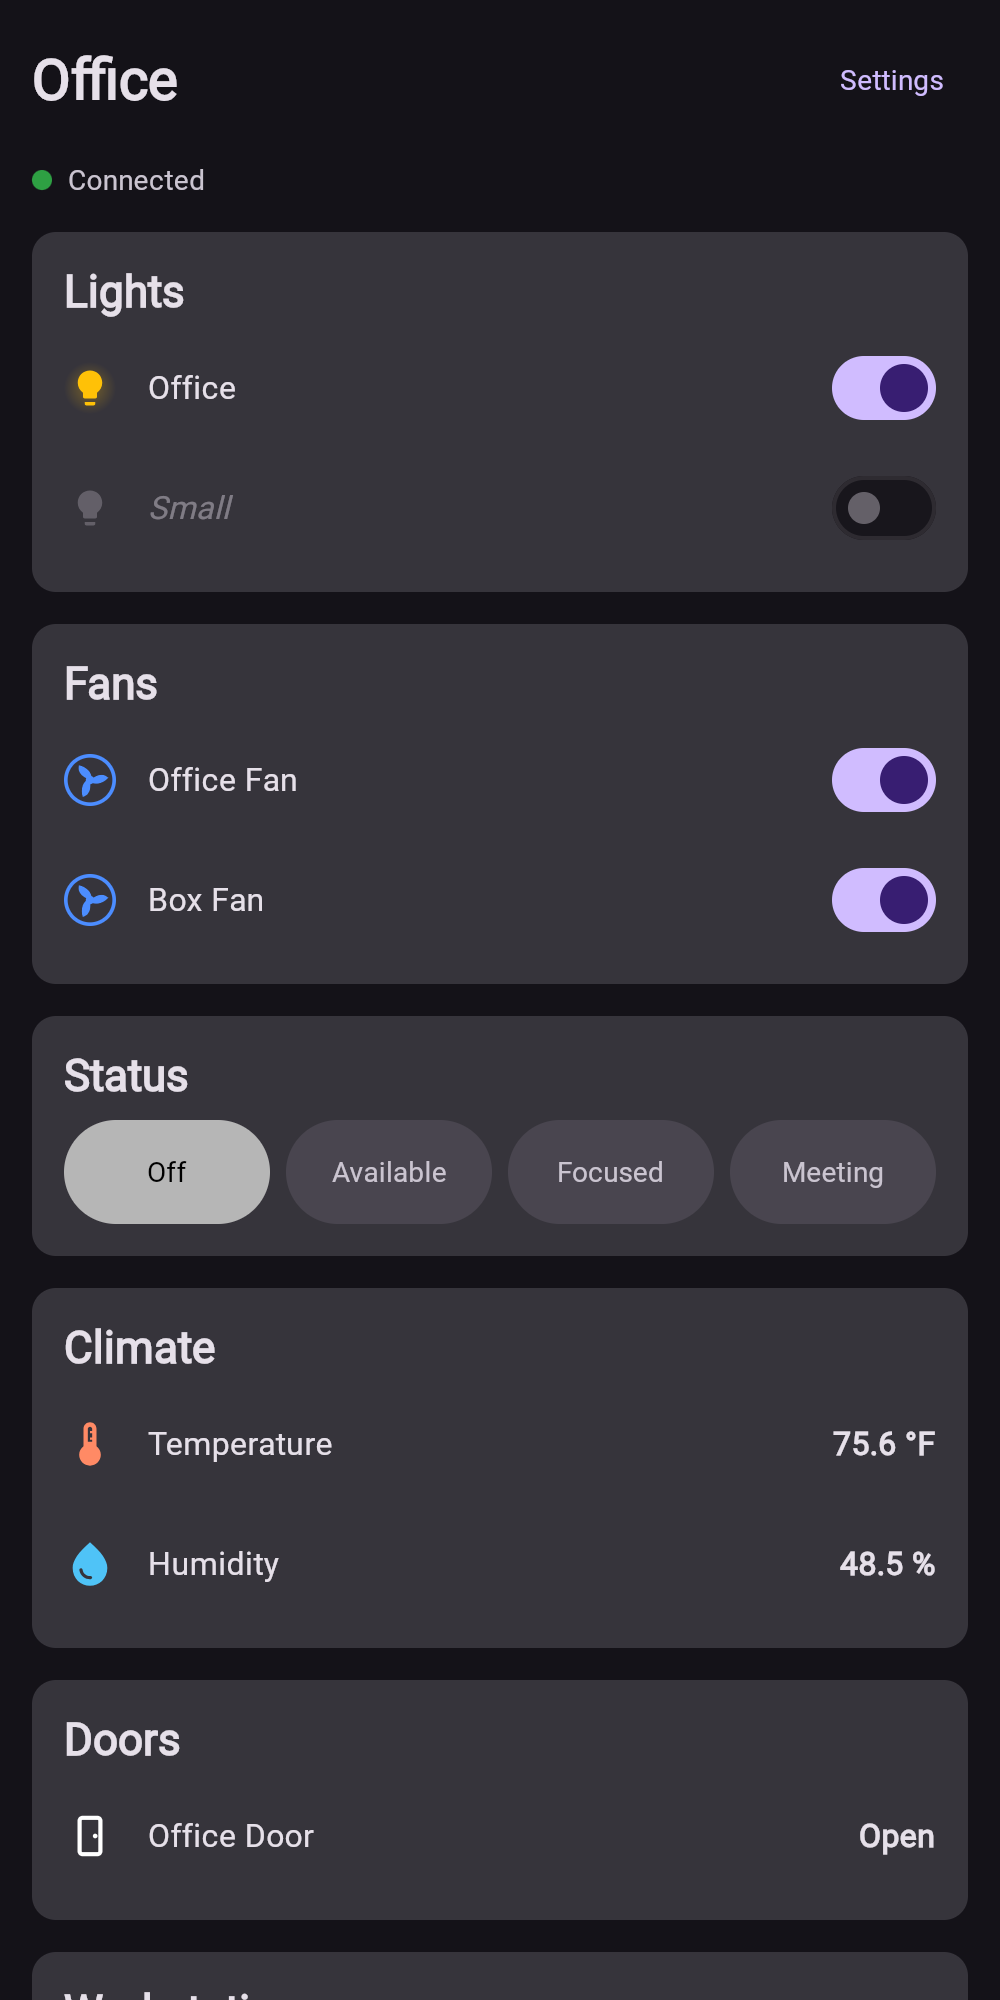
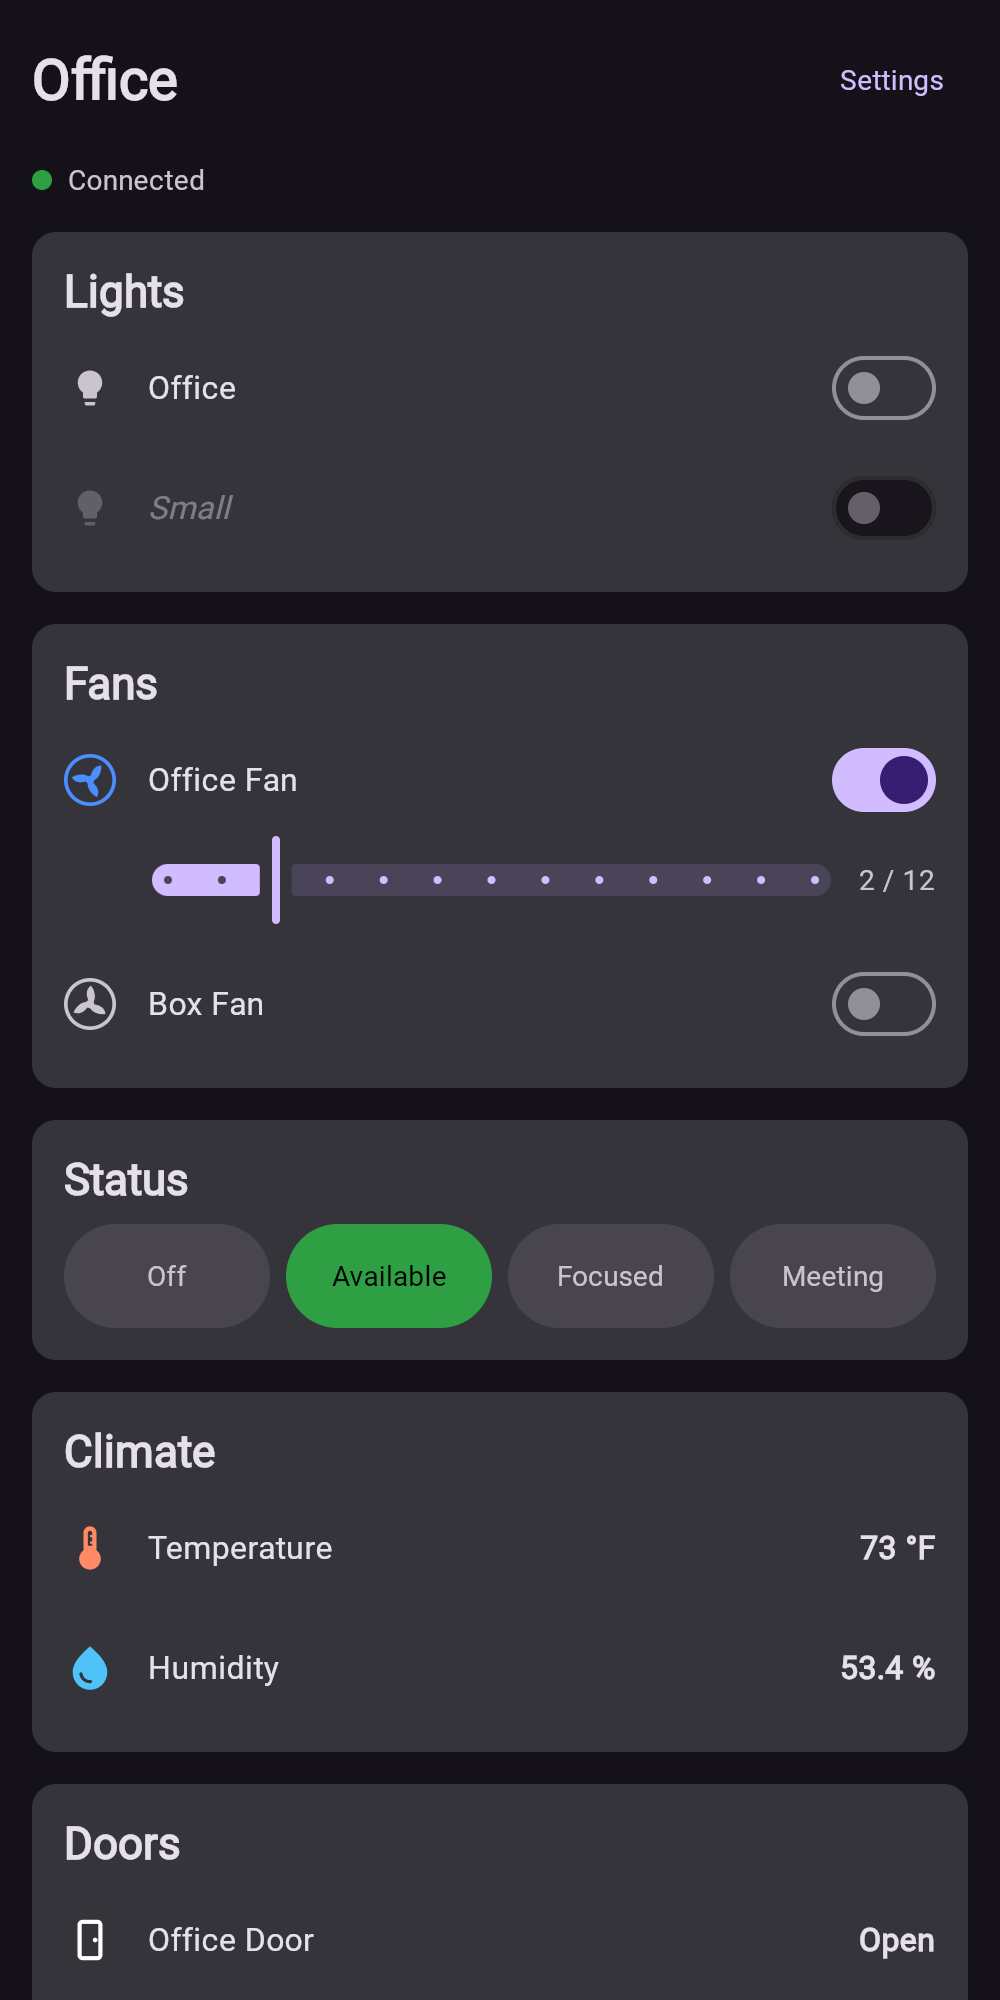
fan speed controls

diff --git a/composeApp/src/commonMain/kotlin/com/degree/homedash/office/FanControl.kt b/composeApp/src/commonMain/kotlin/com/degree/homedash/office/FanControl.kt
@@ -1,15 +1,24 @@
 package com.degree.homedash.office
 
-import androidx.compose.animation.core.LinearEasing
-import androidx.compose.animation.core.RepeatMode
-import androidx.compose.animation.core.animateFloat
-import androidx.compose.animation.core.infiniteRepeatable
-import androidx.compose.animation.core.rememberInfiniteTransition
-import androidx.compose.animation.core.tween
 import androidx.compose.foundation.Canvas
+import androidx.compose.foundation.layout.Arrangement
+import androidx.compose.foundation.layout.Column
+import androidx.compose.foundation.layout.Row
+import androidx.compose.foundation.layout.fillMaxWidth
+import androidx.compose.foundation.layout.padding
 import androidx.compose.foundation.layout.size
+import androidx.compose.material3.MaterialTheme
+import androidx.compose.material3.Slider
+import androidx.compose.material3.Text
 import androidx.compose.runtime.Composable
+import androidx.compose.runtime.LaunchedEffect
 import androidx.compose.runtime.getValue
+import androidx.compose.runtime.mutableStateOf
+import androidx.compose.runtime.remember
+import androidx.compose.runtime.rememberUpdatedState
+import androidx.compose.runtime.setValue
+import androidx.compose.runtime.withFrameMillis
+import androidx.compose.ui.Alignment
 import androidx.compose.ui.Modifier
 import androidx.compose.ui.geometry.Offset
 import androidx.compose.ui.graphics.Color
@@ -18,32 +27,119 @@ import androidx.compose.ui.graphics.drawscope.Stroke
 import androidx.compose.ui.graphics.drawscope.rotate
 import androidx.compose.ui.unit.dp
 import com.degree.homedash.shared.model.EntityState
+import kotlin.math.roundToInt
 
 private val FanOn = Color(0xFF4C8DFF)
 
-/** A fan entity row: a hand-drawn fan whose blades spin while the fan is on. */
+/**
+ * A fan entity row (spinning fan icon + toggle). If [onSetSpeed] is provided and the fan is on,
+ * a stepped speed slider is shown beneath it (reads the `percentage` attribute).
+ */
 @Composable
 fun FanControl(
     name: String,
     entity: EntityState?,
+    onSetSpeed: ((Int) -> Unit)? = null,
     onToggle: () -> Unit,
-) = EntityToggleRow(name, entity, FanOn, onToggle) { tint ->
-    FanIcon(spinning = entity?.isOn == true, tint = tint, modifier = Modifier.size(26.dp))
+) {
+    val spinDurationMs = fanSpinDurationMs(entity, hasSpeedControl = onSetSpeed != null)
+    Column {
+        EntityToggleRow(name, entity, FanOn, onToggle) { tint ->
+            FanIcon(
+                spinning = entity?.isOn == true,
+                durationMs = spinDurationMs,
+                tint = tint,
+                modifier = Modifier.size(26.dp),
+            )
+        }
+        if (onSetSpeed != null && entity?.isOn == true) {
+            // Number of speed levels from the fan's reported percentage_step (e.g. 8.33% -> 12).
+            val stepPct = entity.attrDouble("percentage_step")
+            val levelCount = if (stepPct != null && stepPct > 0.0) (100.0 / stepPct).roundToInt() else 0
+            if (levelCount >= 2) {
+                FanSpeedSlider(
+                    percentage = entity.attrDouble("percentage")?.roundToInt() ?: 0,
+                    levelCount = levelCount,
+                    onSet = onSetSpeed,
+                )
+            }
+        }
+    }
 }
 
-/** Custom fan icon: static outer ring + three swept blades (rotating while [spinning]) + hub. */
+/**
+ * Speed slider that works in integer levels (0..[levelCount]) so every step is reachable.
+ * On release it sends the MIDPOINT percentage of the chosen level's band, which maps cleanly
+ * onto that level under HA's ceil-based percentage→speed conversion (no dead/duplicate steps).
+ */
 @Composable
-private fun FanIcon(spinning: Boolean, tint: Color, modifier: Modifier = Modifier) {
-    val transition = rememberInfiniteTransition(label = "fan")
-    val angle by transition.animateFloat(
-        initialValue = 0f,
-        targetValue = if (spinning) 360f else 0f,
-        animationSpec = infiniteRepeatable(
-            animation = tween(durationMillis = 1200, easing = LinearEasing),
-            repeatMode = RepeatMode.Restart,
-        ),
-        label = "fanAngle",
-    )
+private fun FanSpeedSlider(percentage: Int, levelCount: Int, onSet: (Int) -> Unit) {
+    val currentLevel = (percentage / 100f * levelCount).roundToInt().coerceIn(0, levelCount)
+    var level by remember(currentLevel) { mutableStateOf(currentLevel.toFloat()) }
+    Row(
+        modifier = Modifier.fillMaxWidth().padding(start = 42.dp, bottom = 4.dp),
+        verticalAlignment = Alignment.CenterVertically,
+        horizontalArrangement = Arrangement.spacedBy(12.dp),
+    ) {
+        Slider(
+            value = level,
+            onValueChange = { level = it },
+            onValueChangeFinished = {
+                val k = level.roundToInt()
+                if (k >= 1) {
+                    onSet(((k - 0.5) * 100.0 / levelCount).roundToInt())
+                } else {
+                    level = currentLevel.toFloat() // show the 0 stop, but ignore setting 0%
+                }
+            },
+            valueRange = 0f..levelCount.toFloat(),
+            steps = (levelCount - 1).coerceAtLeast(0),
+            modifier = Modifier.weight(1f),
+        )
+        Text(
+            text = "${level.roundToInt()} / $levelCount",
+            style = MaterialTheme.typography.bodyMedium,
+            color = MaterialTheme.colorScheme.onSurfaceVariant,
+        )
+    }
+}
+
+/**
+ * Spin duration (ms per revolution) scaled by fan speed: 750 ms at top level, 2500 ms at level 1,
+ * linear in between. Fans with no speed control (or no reported speed) spin at a steady 1000 ms.
+ */
+private fun fanSpinDurationMs(entity: EntityState?, hasSpeedControl: Boolean): Int {
+    val stepPct = entity?.attrDouble("percentage_step")
+    val pct = entity?.attrDouble("percentage")
+    if (!hasSpeedControl || stepPct == null || stepPct <= 0.0 || pct == null) return 1000
+    val levelCount = (100.0 / stepPct).roundToInt()
+    if (levelCount < 2) return 1000
+    val level = (pct / 100.0 * levelCount).roundToInt().coerceIn(1, levelCount)
+    val fraction = (level - 1).toFloat() / (levelCount - 1) // 0 at level 1, 1 at top level
+    return (2500f + (750f - 2500f) * fraction).roundToInt()
+}
+
+/**
+ * Custom fan icon: static outer ring + three swept blades + hub. The blades rotate while [spinning]
+ * at one revolution per [durationMs]. Driven per-frame (reading the latest duration each frame) so
+ * speed changes apply smoothly — an InfiniteTransition would ignore duration-only changes.
+ */
+@Composable
+private fun FanIcon(spinning: Boolean, durationMs: Int, tint: Color, modifier: Modifier = Modifier) {
+    val duration by rememberUpdatedState(durationMs.coerceAtLeast(1))
+    val on by rememberUpdatedState(spinning)
+    var angle by remember { mutableStateOf(0f) }
+    LaunchedEffect(Unit) {
+        var last = 0L
+        while (true) {
+            withFrameMillis { now ->
+                if (last != 0L && on) {
+                    angle = (angle + 360f * (now - last) / duration) % 360f
+                }
+                last = now
+            }
+        }
+    }
     Canvas(modifier) {
         val w = size.width
         val h = size.height

diff --git a/composeApp/src/commonMain/kotlin/com/degree/homedash/office/OfficeScreenPreview.kt b/composeApp/src/commonMain/kotlin/com/degree/homedash/office/OfficeScreenPreview.kt
@@ -2,11 +2,25 @@ package com.degree.homedash.office
 
 import com.degree.homedash.shared.model.EntityState
 import com.degree.homedash.shared.model.HistoryPoint
+import kotlinx.serialization.json.JsonObject
+import kotlinx.serialization.json.JsonPrimitive
 import kotlin.math.sin
 
 // Sample data for the Office preview (the @Preview lives in androidMain so Android Studio renders it).
 
 internal fun previewEntity(state: String) = EntityState(entityId = "preview", state = state)
+
+/** A sample fan entity carrying speed attributes so the speed slider renders in previews. */
+internal fun previewFan(percentage: Int, stepPercent: Double = 8.333) = EntityState(
+    entityId = "preview",
+    state = "on",
+    attributes = JsonObject(
+        mapOf(
+            "percentage" to JsonPrimitive(percentage),
+            "percentage_step" to JsonPrimitive(stepPercent),
+        ),
+    ),
+)
 
 internal val previewStates: Map<String, EntityState> = mapOf(
     OfficeEntities.OFFICE_LIGHT to previewEntity("on"),

diff --git a/composeApp/src/commonMain/kotlin/com/degree/homedash/office/OfficeScreen.kt b/composeApp/src/commonMain/kotlin/com/degree/homedash/office/OfficeScreen.kt
@@ -65,6 +65,7 @@ fun OfficeScreen(repository: HaRepository, onOpenSettings: () -> Unit) {
         powerHistory = powerHistory,
         onOpenSettings = onOpenSettings,
         onToggle = { entityId -> scope.launch { repository.toggle(entityId) } },
+        onSetFanSpeed = { id, pct -> scope.launch { repository.setFanPercentage(id, pct) } },
         onSignal = { mode ->
             scope.launch {
                 when (mode) {
@@ -86,6 +87,7 @@ fun OfficeContent(
     powerHistory: List<HistoryPoint>,
     onOpenSettings: () -> Unit,
     onToggle: (String) -> Unit,
+    onSetFanSpeed: (String, Int) -> Unit,
     onSignal: (SignalMode) -> Unit,
 ) {
     Column(
@@ -119,7 +121,11 @@ fun OfficeContent(
         }
 
         SectionCard("Fans") {
-            FanControl("Office Fan", states[OfficeEntities.OFFICE_FAN]) {
+            FanControl(
+                "Office Fan",
+                states[OfficeEntities.OFFICE_FAN],
+                onSetSpeed = { pct -> onSetFanSpeed(OfficeEntities.OFFICE_FAN, pct) },
+            ) {
                 onToggle(OfficeEntities.OFFICE_FAN)
             }
             FanControl("Box Fan", states[OfficeEntities.BOX_FAN]) {

diff --git a/shared/src/commonMain/kotlin/com/degree/homedash/shared/data/HaRepository.kt b/shared/src/commonMain/kotlin/com/degree/homedash/shared/data/HaRepository.kt
@@ -7,6 +7,8 @@ import com.degree.homedash.shared.network.HaProtocol
 import com.degree.homedash.shared.network.HaWebSocketClient
 import kotlinx.coroutines.flow.StateFlow
 import kotlinx.serialization.json.JsonObject
+import kotlinx.serialization.json.buildJsonObject
+import kotlinx.serialization.json.put
 import kotlin.time.Clock
 import kotlin.time.Duration.Companion.hours
 import kotlin.time.ExperimentalTime
@@ -37,6 +39,10 @@ class HaRepository(private val client: HaWebSocketClient) {
     /** Run a `script.*` entity. */
     suspend fun runScript(scriptEntityId: String) =
         client.callService("script", "turn_on", scriptEntityId)
+
+    /** Set a fan's speed (0–100%). The value arrives back via the entity's `percentage` attribute. */
+    suspend fun setFanPercentage(entityId: String, percentage: Int) =
+        client.callService("fan", "set_percentage", entityId, buildJsonObject { put("percentage", percentage) })
 
     suspend fun callService(
         domain: String,

diff --git a/composeApp/src/androidMain/kotlin/com/degree/homedash/office/FanControlPreview.kt b/composeApp/src/androidMain/kotlin/com/degree/homedash/office/FanControlPreview.kt
@@ -7,6 +7,7 @@ import androidx.compose.ui.tooling.preview.Preview
 @Composable
 private fun FanControlPreview() = ControlPreview {
     FanControl("On", previewEntity("on")) {}
+    FanControl("With speed", previewFan(percentage = 75), onSetSpeed = {}) {}
     FanControl("Off", previewEntity("off")) {}
     FanControl("Offline", previewEntity("unavailable")) {}
 }

diff --git a/composeApp/src/androidMain/kotlin/com/degree/homedash/office/OfficeScreenAndroidPreview.kt b/composeApp/src/androidMain/kotlin/com/degree/homedash/office/OfficeScreenAndroidPreview.kt
@@ -19,6 +19,7 @@ private fun OfficeScreenPreview() {
                 powerHistory = previewHistory,
                 onOpenSettings = {},
                 onToggle = {},
+                onSetFanSpeed = { _, _ -> },
                 onSignal = {},
             )
         }